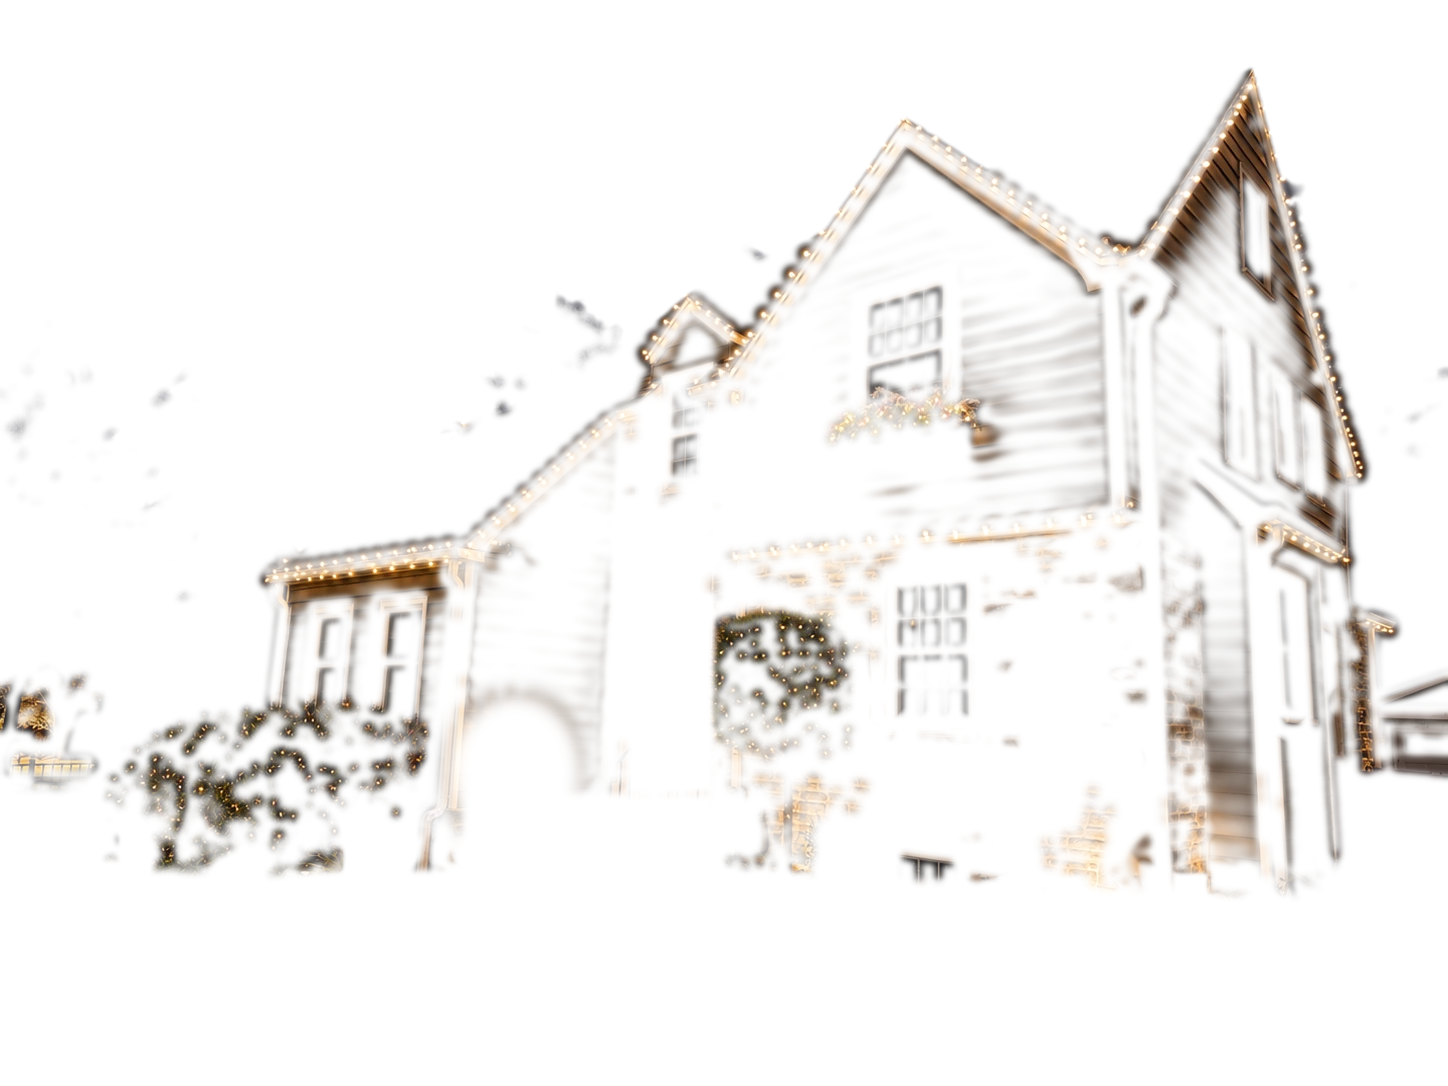
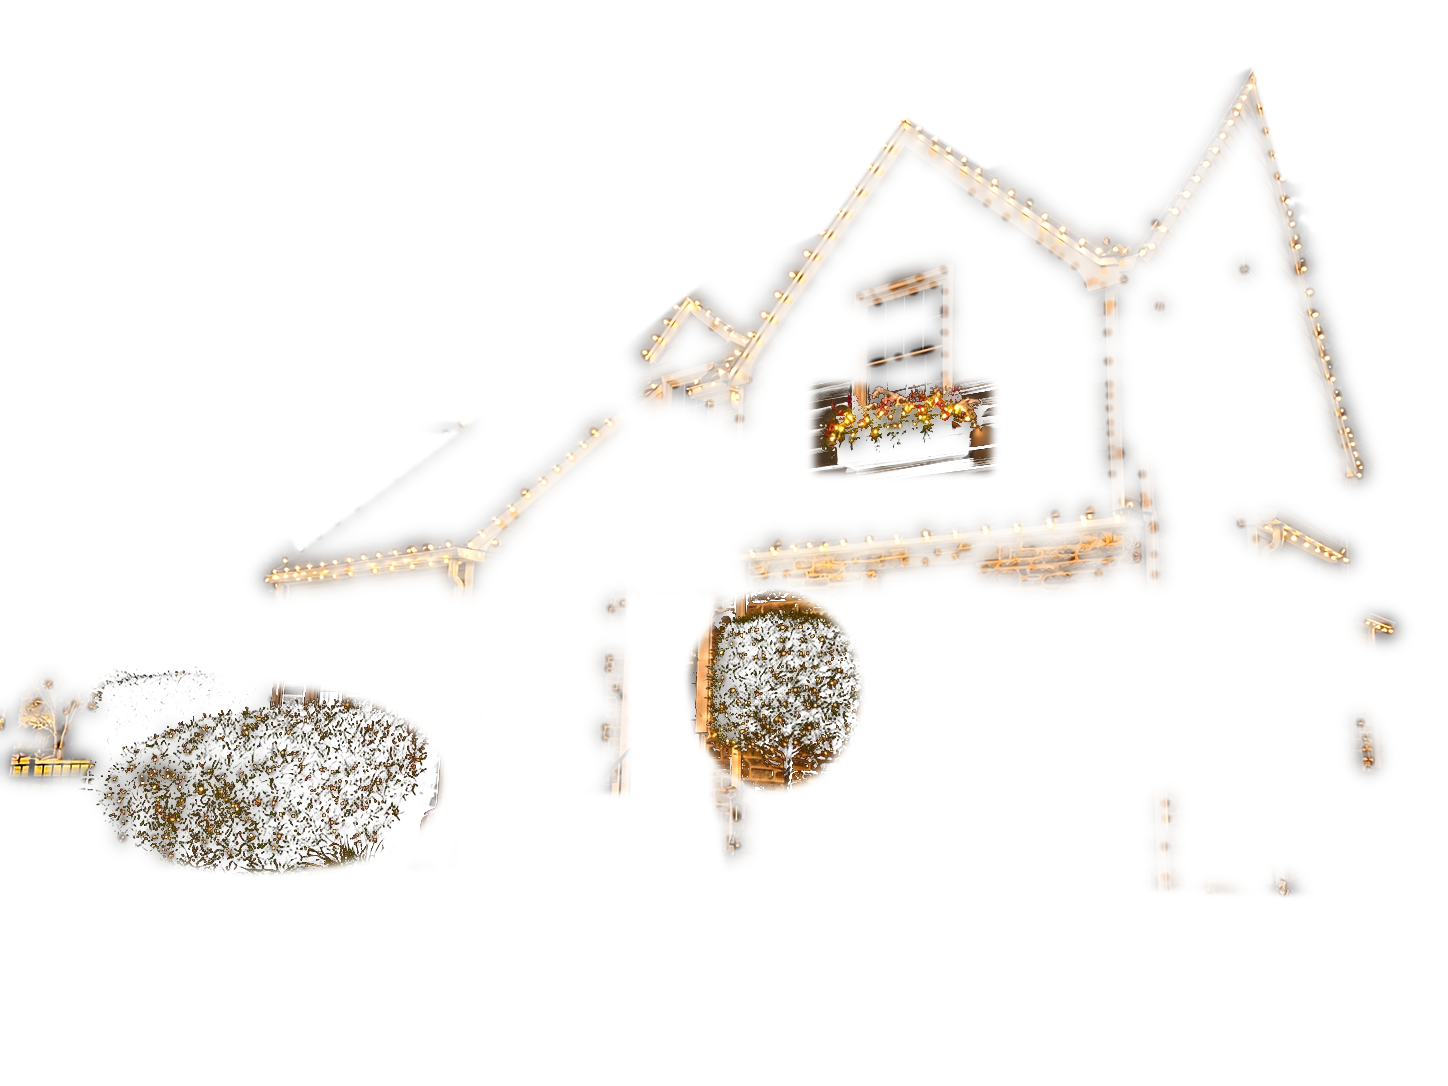
Vibrant holiday layer from detected bulbs; stone layer without ground lights
Claude-Session: https://claude.ai/code/session_01477XfrkwMA9gQYivJ4i7xH

diff --git a/src/scene/PhotoStage.tsx b/src/scene/PhotoStage.tsx
@@ -116,6 +116,9 @@ void main() {
     vec3 lit = max(max(lp.rgb * on.x, ls.rgb * on.y), max(le.rgb * on.z, lh.rgb * on.w));
     float w = max(max(lp.a * on.x, ls.a * on.y), max(le.a * on.z, lh.a * on.w));
     nightCol = mix(base, lit, w) * (1.0 + 0.08 * max(max(uOn.x, uOn.y), max(uOn.z, uOn.w)) * w - 0.08 * w);
+    // With holiday lights on, the rest of the night drops a little darker so
+    // the bulbs carry the picture, as they do to the eye.
+    nightCol *= mix(1.0, 0.72, on.w * (1.0 - lh.a * on.w));
     // Settled snow keeps the shading of what lies under it and throws light back.
     float nl = luma(nightCol);
     nightCol = mix(nightCol, mix(vec3(0.085, 0.10, 0.15) * (0.55 + 6.0 * nl), nightCol * 2.2 + 0.02, smoothstep(0.02, 0.2, nl) * w), sn);

diff --git a/tools/build_night_layers.py b/tools/build_night_layers.py
@@ -82,30 +82,41 @@ for k in L:
         w*=1-cv2.GaussianBlur(pm,(0,0),2)
     w*=(1-mailbox)
     masks[k]=w
-# The holiday mockup also has the path and stone lighting switched on. The
-# holiday layer keeps only its own lights: strings, nets, wreath and box.
+# Holiday layer: only its own lights, at full strength. The mask is built
+# from the bulbs themselves (strong local peaks, widened to take in each
+# bulb's glow on the fascia), plus the net-lit shrubs and the window box.
 hl=lumf(np.clip(L['holiday']-mn,0,None)); hb=cv2.GaussianBlur(hl,(0,0),1.0)
-# Near a bulb: around detected bulb centres only, so an uplight's wash is
-# never mistaken for string lights.
-pk=((hb==cv2.dilate(hb,np.ones((5,5),np.uint8)))&((hb-cv2.GaussianBlur(hl,(0,0),7))>0.16)&(hb>0.3)).astype(np.float32)
-near=np.clip(cv2.GaussianBlur(pk,(0,0),5)*30,0,1)
-masks['holiday']*=1-np.maximum(masks['path'],masks['stone'])*(1-near)
-# Holiday lights go on the house and the bushes only: never on the lawn,
-# the walkway, the steps or the low planting along the path.
+pk=((hb==cv2.dilate(hb,np.ones((5,5),np.uint8)))&((hb-cv2.GaussianBlur(hl,(0,0),7))>0.08)&(hb>0.15)).astype(np.float32)
+# Stone texture throws false peaks: bulbs are only looked for off the walls.
+walls=np.zeros((H,W),np.float32)
+for (x0,y0,x1,y1) in [(738,578,1162,910),(612,412,738,602),(1170,580,1260,890),(276,592,472,860),(1186,560,1340,880)]: cv2.rectangle(walls,(x0,y0),(x1,y1),1,-1)
+pk*=1-walls
+near=np.clip(cv2.GaussianBlur(pk,(0,0),3.5)*40,0,1)
+near=np.maximum(near,np.clip(cv2.GaussianBlur(pk,(0,0),9)*60,0,1)*0.85)
+plants=np.zeros((H,W),np.float32)
+cv2.ellipse(plants,(262,780),(178,92),0,0,360,1,-1); cv2.ellipse(plants,(772,690),(84,96),0,0,360,1,-1); cv2.ellipse(plants,(160,700),(66,34),0,0,360,1,-1)
+cv2.rectangle(plants,(815,385),(990,470),1,-1)
+plants=cv2.GaussianBlur(plants,(0,0),4)*np.clip(hl/0.02,0,1)
+masks['holiday']=np.clip(np.maximum(near,plants),0,1)*(1-sky[...,0])*(1-mailbox)
+# Never on the lawn, walk, steps or low planting; never on the door.
+gk=np.zeros((H,W),np.float32)
+cv2.fillPoly(gk,[np.array([(0,872),(452,868),(468,792),(712,792),(726,872),(1448,900),(1448,1086),(0,1086)],np.int32)],1)
+cv2.rectangle(gk,(626,594),(714,792),1,-1)
+shr=np.zeros((H,W),np.float32); cv2.ellipse(shr,(262,780),(178,92),0,0,360,1,-1); cv2.ellipse(shr,(772,690),(84,96),0,0,360,1,-1)
+masks['holiday']*=cv2.GaussianBlur(np.clip(1-gk+shr,0,1),(0,0),3)
+# Stone uplights: no ground lights. The two post lights and the glow in the
+# bed below the wall belong to the path layer.
 ground=np.zeros((H,W),np.float32)
-cv2.fillPoly(ground,[np.array([(0,872),(452,868),(468,792),(712,792),(726,872),(1448,900),(1448,1086),(0,1086)],np.int32)],1)
-shrubs=np.zeros((H,W),np.float32)
-cv2.ellipse(shrubs,(262,780),(178,92),0,0,360,1,-1)   # the big shrub
-cv2.ellipse(shrubs,(772,690),(84,96),0,0,360,1,-1)    # the clipped tree
-cv2.ellipse(shrubs,(160,700),(66,34),0,0,360,1,-1)    # hedge behind it
-keep=np.clip(1-ground+shrubs,0,1)
-masks['holiday']*=cv2.GaussianBlur(keep,(0,0),4)
-# The door stays the real door in every state (the holiday mockup repainted it).
-a=np.zeros((H,W),np.float32); cv2.rectangle(a,(626,594),(714,792),1,-1); masks['holiday']*=1-cv2.GaussianBlur(a,(0,0),3)
+cv2.fillPoly(ground,[np.array([(560,905),(700,890),(1448,880),(1448,1086),(560,1086)],np.int32)],1)
+for (x0,y0,x1,y1) in [(608,832,652,898),(664,846,708,908),(1026,866,1072,952),(1052,884,1074,910)]: cv2.rectangle(ground,(x0,y0),(x1,y1),1,-1)
+masks['stone']*=1-cv2.GaussianBlur(ground,(0,0),5)
 for k in L:
     w=masks[k]
     layers[k]=np.clip(L[k]-mn,0,None)*w[...,None]
-    rgba=np.dstack([enc(L[k]),(np.clip(w,0,1)*255).astype(np.uint8)])
+    src=L[k]
+    if k=='holiday':
+        src=L[k]+np.clip(L[k]-mn,0,None)*1.1*near[...,None]
+    rgba=np.dstack([enc(src),(np.clip(w,0,1)*255).astype(np.uint8)])
     Image.fromarray(rgba,'RGBA').save(OUT+f'light-{k}.webp',quality=90,method=6,exact=True)
 Image.fromarray(enc(base)).save(OUT+'base.webp',quality=92,method=6)
 Image.fromarray(real).save(OUT+'real.webp',quality=86,method=6)
